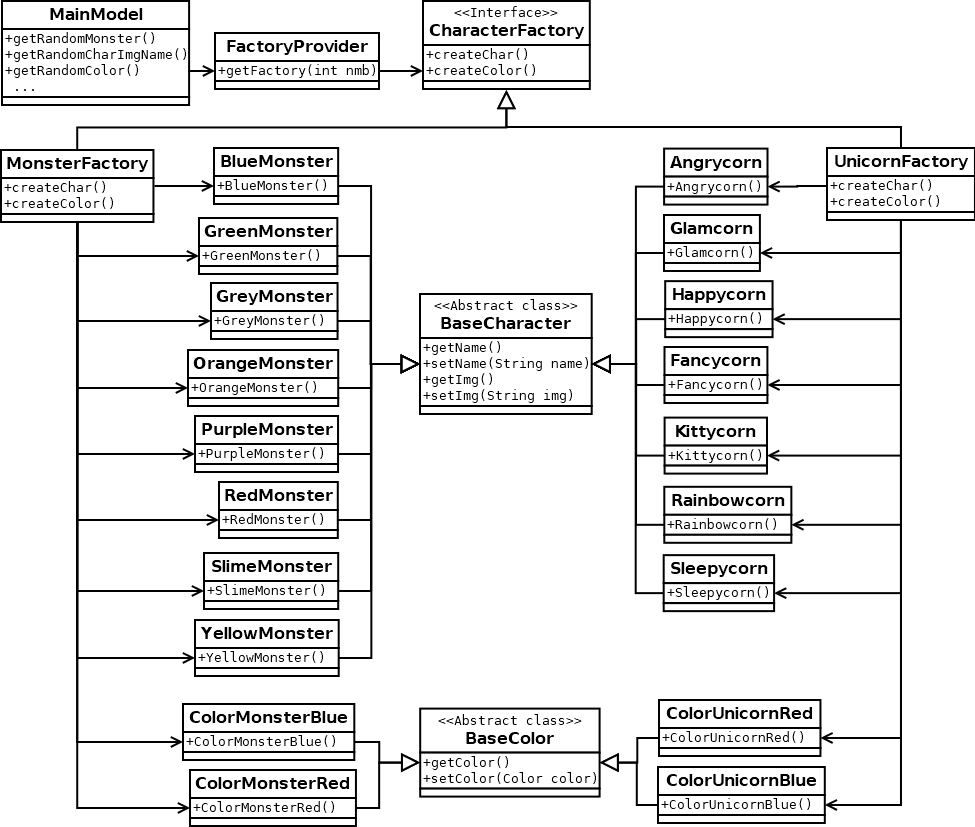
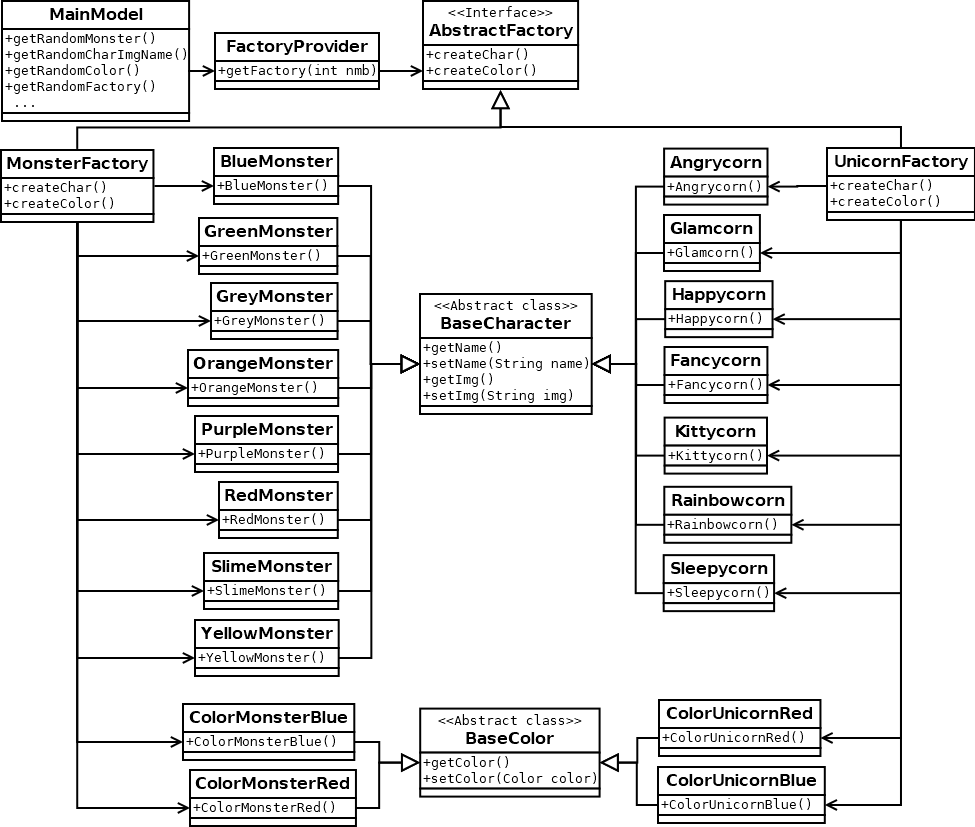
redame continued

Changed region(s): [[0.4308, 0.0, 0.6154, 0.1209], [0.0, 0.0907, 0.2154, 0.1511], [0.4923, 0.0907, 0.5231, 0.1511]]

diff --git a/src/main/java/com/dt181g/project/models/MainModel.java b/src/main/java/com/dt181g/project/models/MainModel.java
@@ -16,6 +16,8 @@ import java.util.stream.Collectors;
  */
 public class MainModel {
 
+    AbstractFactory monsterFactory = FactoryProvider.getFactory(1);
+    AbstractFactory unicornFactory = FactoryProvider.getFactory(2);
     private final List<String> words = Constants.STRING_LIST_LVL1;
     private int lvl2Result;
 
@@ -24,7 +26,6 @@ public class MainModel {
      * @return a random Monster.
      */
     public BaseCharacter getRandomMonster() {
-        MonsterFactory monsterFactory = (MonsterFactory) FactoryProvider.getFactory(1);
         return monsterFactory.createChar();
     }
 
@@ -76,7 +77,7 @@ public class MainModel {
      * @return a list with image and name.
      */
     public List<String> getRandomCharImgName() {
-        AbstractFactory factory = FactoryProvider.getFactory(new Random().nextInt(2 + 1));
+        AbstractFactory factory = getRandomFactory();
         BaseCharacter character = factory.createChar();
         String img = character.getImg();
         String name = character.getName();
@@ -89,7 +90,22 @@ public class MainModel {
      * @return a random color.
      */
     public Color getRandomColor() {
-        AbstractFactory factory = FactoryProvider.getFactory(new Random().nextInt(2 + 1));
+        AbstractFactory factory = getRandomFactory();
         return factory.createColor().getColor();
+    }
+
+    /**
+     * Method for getting a random factory which is used to create random colors and characters by each factory type
+     * by the two methods above. This means that the above two methods does not have to create new factories
+     * each time they're called.
+     * @return a random factory.
+     */
+    public AbstractFactory getRandomFactory() {
+        int random = new Random().nextInt(2 + 1);
+        if (random == 1) {
+            return monsterFactory;
+        } else {
+            return unicornFactory;
+        }
     }
 }
